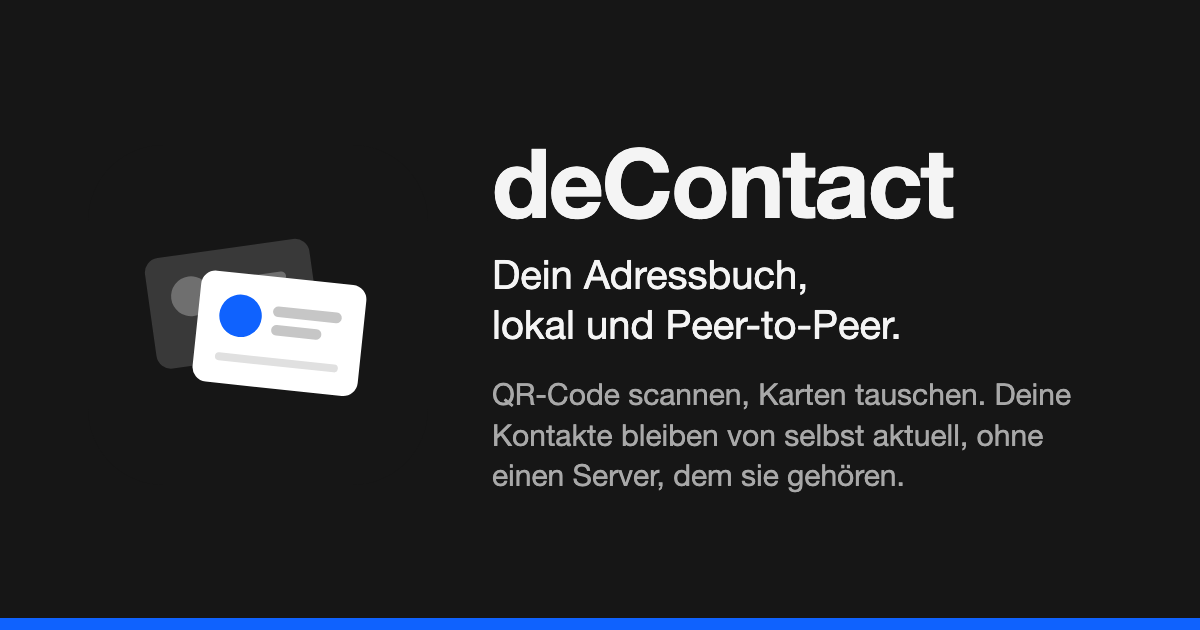
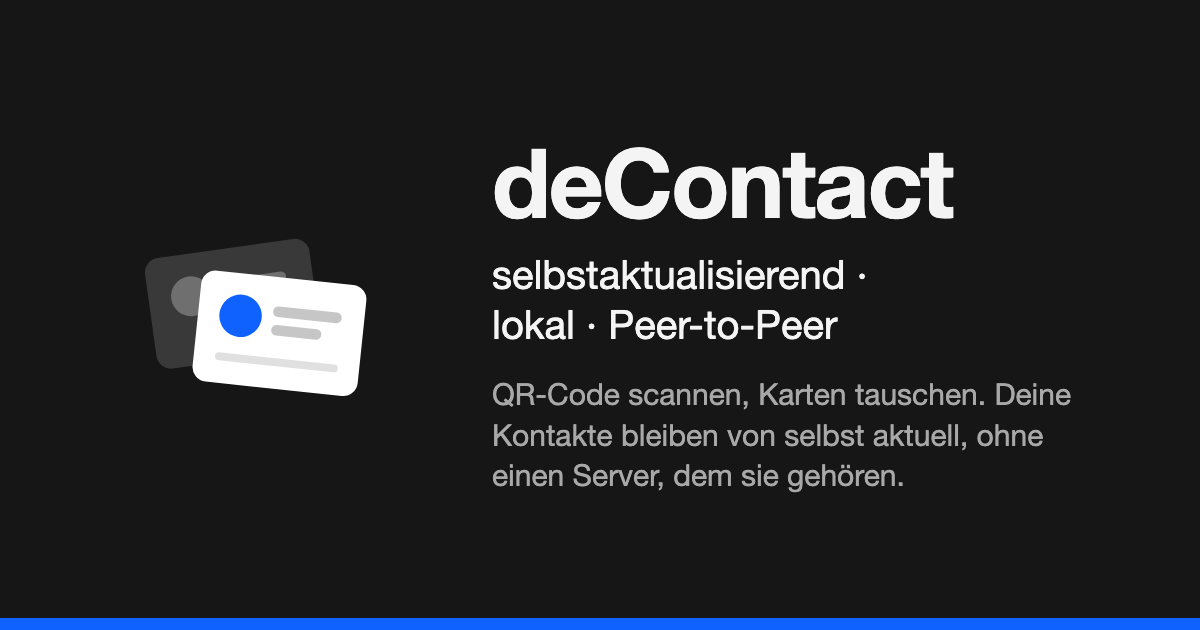
fix: title, descriptions and preview pictures carry the claim self-updating · local · peer-to-peer

Changed region(s): [[0.4008, 0.3921, 0.74, 0.5429]]

diff --git a/src/lib/i18n/de.js b/src/lib/i18n/de.js
@@ -7,13 +7,13 @@ export default {
 	// was Suchmaschinen und Link-Vorschauen lesen (seo.js), und das Bild der Vorschau
 	// (scripts/brand/og-image.html): die Seite jeder Sprache hat ihre eigenen
 	meta: {
-		title: 'deContact – dein Peer-to-Peer-Adressbuch',
+		title: 'deContact – selbstaktualisierend · lokal · Peer-to-Peer',
 		description:
-			'Ein Adressbuch, das bei dir liegt und Peer-to-Peer läuft. QR-Code scannen, Karten tauschen: Deine Kontakte bleiben von selbst aktuell, ohne einen Server, dem sie gehören.',
+			'Das selbstaktualisierende, lokale Peer-to-Peer-Adressbuch. QR-Code scannen, Karten tauschen: Deine Kontakte bleiben von selbst aktuell, ohne einen Server, dem sie gehören.',
 		previewDescription: 'QR-Code scannen, Karten tauschen. Deine Kontakte bleiben von selbst aktuell, ohne einen Server, dem sie gehören.',
-		imageAlt: 'deContact: zwei Kontaktkarten, die getauscht werden, und die Worte: dein Adressbuch, lokal und Peer-to-Peer.',
-		imageLead: 'Dein Adressbuch,<br />lokal und Peer-to-Peer.',
-		noscript: 'Ein Adressbuch, das bei dir liegt und Peer-to-Peer läuft. deContact läuft in deinem Browser und braucht JavaScript.',
+		imageAlt: 'deContact: zwei Kontaktkarten, die getauscht werden, und die Worte: selbstaktualisierend, lokal, Peer-to-Peer.',
+		imageLead: 'selbstaktualisierend ·<br />lokal · Peer-to-Peer',
+		noscript: 'Das selbstaktualisierende, lokale Peer-to-Peer-Adressbuch. deContact läuft in deinem Browser und braucht JavaScript.',
 		source: 'Quellcode und Dokumentation auf GitHub'
 	},
 	// was die App über ihren Build sagt (AppInfo.svelte)

diff --git a/src/lib/i18n/en.js b/src/lib/i18n/en.js
@@ -7,13 +7,13 @@ export default {
 	// what search engines and link previews read (seo.js), and the picture of the preview
 	// (scripts/brand/og-image.html): the page of each language has its own
 	meta: {
-		title: 'deContact – your peer-to-peer address book',
+		title: 'deContact – self-updating · local · peer-to-peer',
 		description:
-			'A local-first, peer-to-peer address book. Scan a QR code, exchange cards, and your contacts keep themselves up to date, without a server that owns them.',
+			'The self-updating, local, peer-to-peer address book. Scan a QR code, exchange cards, and your contacts keep themselves up to date, without a server that owns them.',
 		previewDescription: 'Scan a QR code, exchange cards. Your contacts keep themselves up to date, without a server that owns them.',
-		imageAlt: 'deContact: two contact cards being exchanged, and the words: a local-first, peer-to-peer address book.',
-		imageLead: 'A local-first,<br />peer-to-peer address book.',
-		noscript: 'A local-first, peer-to-peer address book. deContact runs in your browser and needs JavaScript.',
+		imageAlt: 'deContact: two contact cards being exchanged, and the words: self-updating, local, peer-to-peer.',
+		imageLead: 'self-updating · local ·<br />peer-to-peer',
+		noscript: 'The self-updating, local, peer-to-peer address book. deContact runs in your browser and needs JavaScript.',
 		source: 'Source code and documentation on GitHub'
 	},
 	// what the app says about its build (AppInfo.svelte)

diff --git a/tests/Pwa.spec.js b/tests/Pwa.spec.js
@@ -56,8 +56,8 @@ test('installable, and it starts offline', async ({ browser }) => {
 
 // the page of each language (src/lib/seo.js): its address below the app's, its title, its picture
 const pages = [
-	{ locale: 'en', page: '', title: 'deContact – your peer-to-peer address book', image: 'og-image.png', ogLocale: 'en_US' },
-	{ locale: 'de', page: 'de/', title: 'deContact – dein Peer-to-Peer-Adressbuch', image: 'og-image-de.png', ogLocale: 'de_DE' }
+	{ locale: 'en', page: '', title: 'deContact – self-updating · local · peer-to-peer', image: 'og-image.png', ogLocale: 'en_US' },
+	{ locale: 'de', page: 'de/', title: 'deContact – selbstaktualisierend · lokal · Peer-to-Peer', image: 'og-image-de.png', ogLocale: 'de_DE' }
 ];
 
 for (const { locale, page, title, image, ogLocale } of pages) {

diff --git a/README.md b/README.md
@@ -2,7 +2,7 @@
 
 # deContact
 
-**A local-first, peer-to-peer address book. Your contacts keep themselves up to date — without a server that owns them.**
+**Self-updating · local · peer-to-peer. An address book whose contacts keep themselves up to date — without a server that owns them.**
 
 [![Tests](https://github.com/NiKrause/deContact/actions/workflows/main.yml/badge.svg?branch=main)](https://github.com/NiKrause/deContact/actions/workflows/main.yml)
 [![Release](https://img.shields.io/github/v/tag/NiKrause/deContact?sort=semver&label=release)](https://github.com/NiKrause/deContact/tags)
